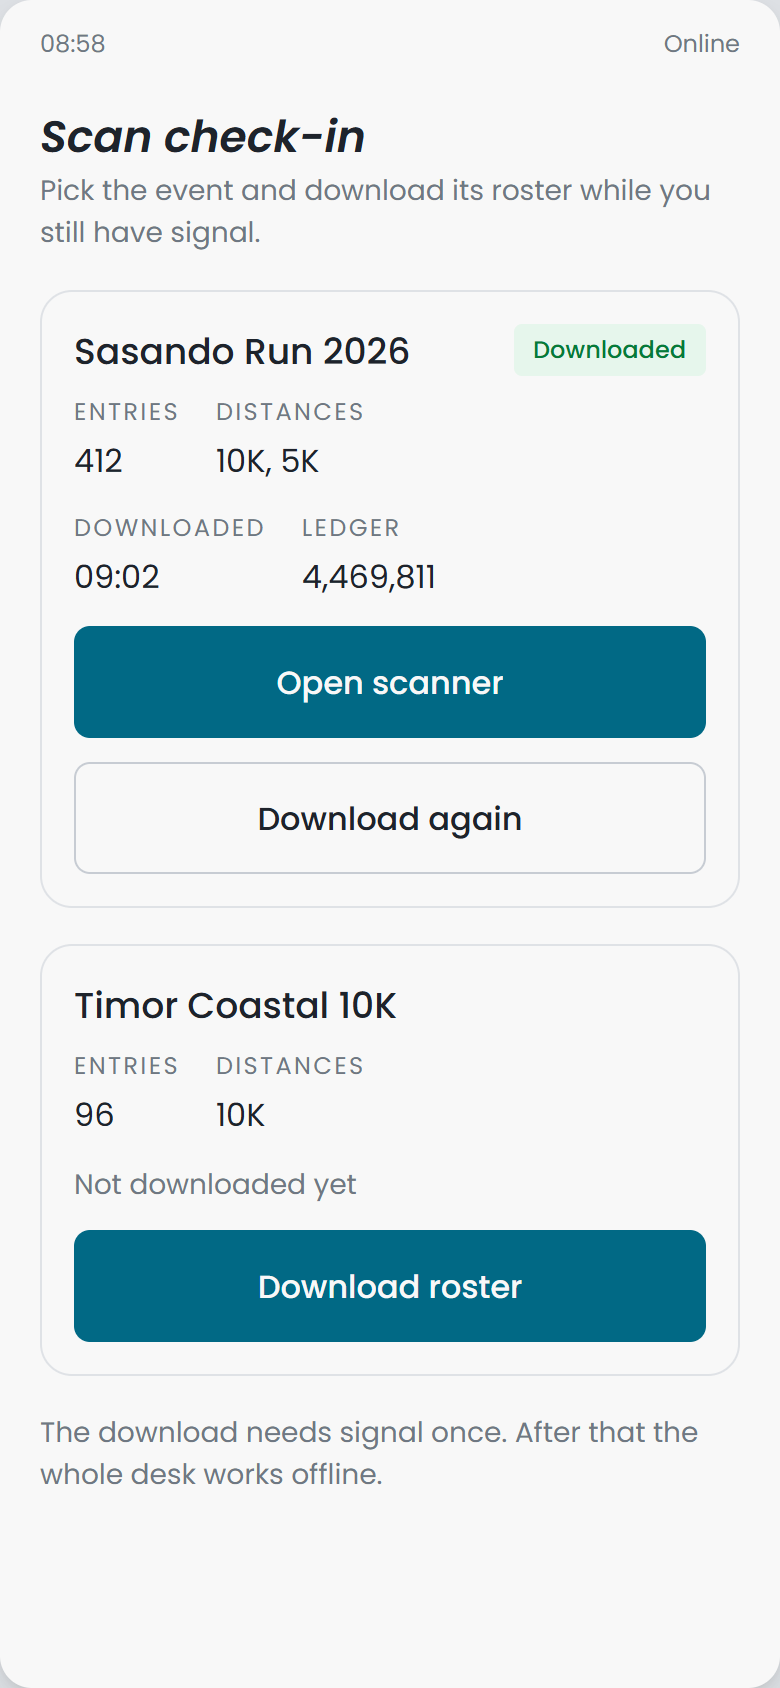
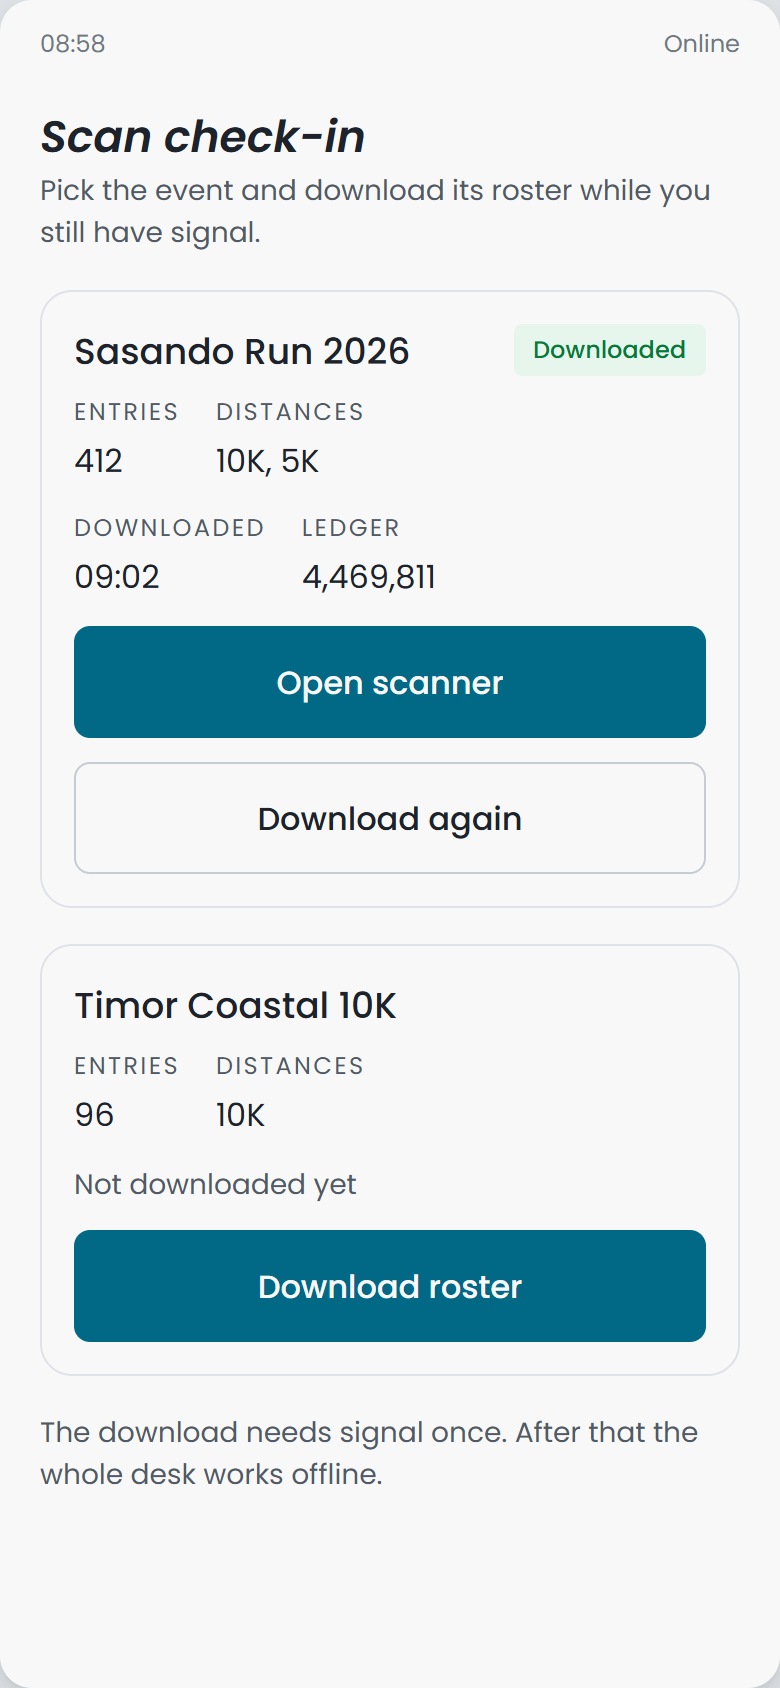
STE-23: raise the greys that fail AA on the race-day screens
Found by measuring the profile screens rather than by looking at these: n-500
on paper is 4.22:1, and AA wants 4.5 for anything under 18.66px. That is every
quiet label on the board, including the one under the bib and the one naming
the rotating code, plus the placeholder in the manual entry field.

n-600 is 6.58:1 and reads as the same quiet grey. Six declarations, no layout
change, and the pairs are now in the contrast table so the next person does not
have to rediscover it. If fe/ maps a muted class to n-500 over paper, it has the
same bug, and that belongs in the polish pass.

diff --git a/docs/design/race-day/mockups/index.html b/docs/design/race-day/mockups/index.html
@@ -46,7 +46,7 @@ figcaption code { font-size: var(--text-xs); color: var(--color-n-500); }
 .btn--ghost { background: transparent; color: var(--color-ink); border: 1px solid var(--color-n-300); }
 .btn--onDark { background: var(--color-n-100); color: var(--color-ink); }
 .btn--ghostDark { background: transparent; color: var(--color-paper); border: 1px solid var(--color-n-700); }
-.muted { color: var(--color-n-500); font-size: var(--text-sm); }
+.muted { color: var(--color-n-600); font-size: var(--text-sm); }
 .mutedDark { color: var(--color-n-400); font-size: var(--text-sm); }
 .screenTitle { font-family: var(--font-display); font-style: italic; font-weight: 600; font-size: var(--text-xl); }
 .stack { display: flex; flex-direction: column; }
@@ -56,14 +56,14 @@ figcaption code { font-size: var(--text-xs); color: var(--color-n-500); }
 .pass > .qrCard { margin-top: auto; }
 .pass > .muted:last-child, .pass > .btn:last-child { margin-top: auto; }
 .pass__event { font-family: var(--font-display); font-style: italic; font-weight: 600; font-size: var(--text-xl); }
-.pass__meta { color: var(--color-n-500); font-size: var(--text-sm); margin-top: 2px; }
+.pass__meta { color: var(--color-n-600); font-size: var(--text-sm); margin-top: 2px; }
 /* Meta is a spec row, not a run of text: a small label over its value, spaced.
    The middle dot it replaces flattened three different kinds of fact into one
    line, so finding the distance meant reading the date and the city too. */
 .metaRow { display: flex; flex-wrap: wrap; gap: 24px; }
 .metaRow--tight { gap: 18px; }
 .metaItem { display: flex; flex-direction: column; gap: 3px; }
-.metaLabel { font-size: var(--text-xs); text-transform: uppercase; letter-spacing: .1em; color: var(--color-n-500); }
+.metaLabel { font-size: var(--text-xs); text-transform: uppercase; letter-spacing: .1em; color: var(--color-n-600); }
 .metaLabel--onDark { color: var(--color-n-400); }
 .metaValue { font-size: var(--text-base); }
 .metaValue--sm { font-size: var(--text-sm); }
@@ -71,12 +71,12 @@ figcaption code { font-size: var(--text-xs); color: var(--color-n-500); }
 .inline { display: flex; align-items: baseline; gap: 16px; }
 .inline--wide { gap: 22px; }
 .bibRow { display: flex; align-items: flex-end; justify-content: space-between; }
-.bibLabel { font-size: var(--text-xs); letter-spacing: .12em; text-transform: uppercase; color: var(--color-n-500); }
+.bibLabel { font-size: var(--text-xs); letter-spacing: .12em; text-transform: uppercase; color: var(--color-n-600); }
 .bib { font-size: var(--text-bib); line-height: var(--text-bib--line-height); font-weight: 600; }
 .qrCard { background: var(--color-paper); border-radius: var(--radius-lg); box-shadow: var(--shadow-lifted);
   padding: 20px; display: flex; flex-direction: column; align-items: center; gap: 16px; }
 .qrCard img { width: 268px; height: 268px; display: block; }
-.codeLabel { font-size: var(--text-xs); color: var(--color-n-500); text-align: center; }
+.codeLabel { font-size: var(--text-xs); color: var(--color-n-600); text-align: center; }
 .code { font-size: var(--text-3xl); font-weight: 600; letter-spacing: .22em; }
 .countdown { display: flex; align-items: center; gap: 10px; width: 100%; }
 .track { flex: 1; height: 6px; border-radius: 999px; background: var(--color-n-200); overflow: hidden; }
@@ -129,7 +129,7 @@ figcaption code { font-size: var(--text-xs); color: var(--color-n-500); }
 .field label { font-size: var(--text-sm); color: var(--color-n-300); }
 .field .box { height: 68px; border-radius: var(--radius-md); border: 1px solid var(--color-n-700); background: var(--color-n-900);
   display: flex; align-items: center; padding: 0 18px; font-size: var(--text-3xl); letter-spacing: .18em; }
-.field .box.empty { color: var(--color-n-500); }
+.field .box.empty { color: var(--color-n-600); }
 .clockBanner { background: var(--color-warning-strong); color: var(--color-ink); padding: 14px 16px; display: flex; gap: 10px; }
 .progress { height: 8px; border-radius: 999px; background: var(--color-n-800); overflow: hidden; }
 .progress > i { display: block; height: 100%; background: var(--color-teal-300); }

diff --git a/docs/design/race-day/README.md b/docs/design/race-day/README.md
@@ -86,6 +86,7 @@ a volunteer who cannot tell green from red. Three rules carry that:
 | paper on `danger-strong` | 4.05:1 | Passes AA for large text; RED text is never below `--text-2xl`. |
 | ink on `warning-strong` | 5.39:1 | The clock banner, ink on amber as the tokens require. |
 | paper on `warning-strong` | 2.76:1 | **Fails.** Never put paper text on amber. |
+| `n-500` on `paper` | 4.22:1 | **Fails.** Measured while designing the profile screens and fixed here too: every quiet label, caption and empty-field placeholder on a light ground uses `n-600` (6.58:1). |
 
 So every verdict differs in **three** ways before colour is considered: the **word** (`HAND OVER`,
 `CODE EXPIRED`, `ALREADY CLAIMED`, `NOT ON ROSTER`), the **icon shape** (check, cross, triangle,
